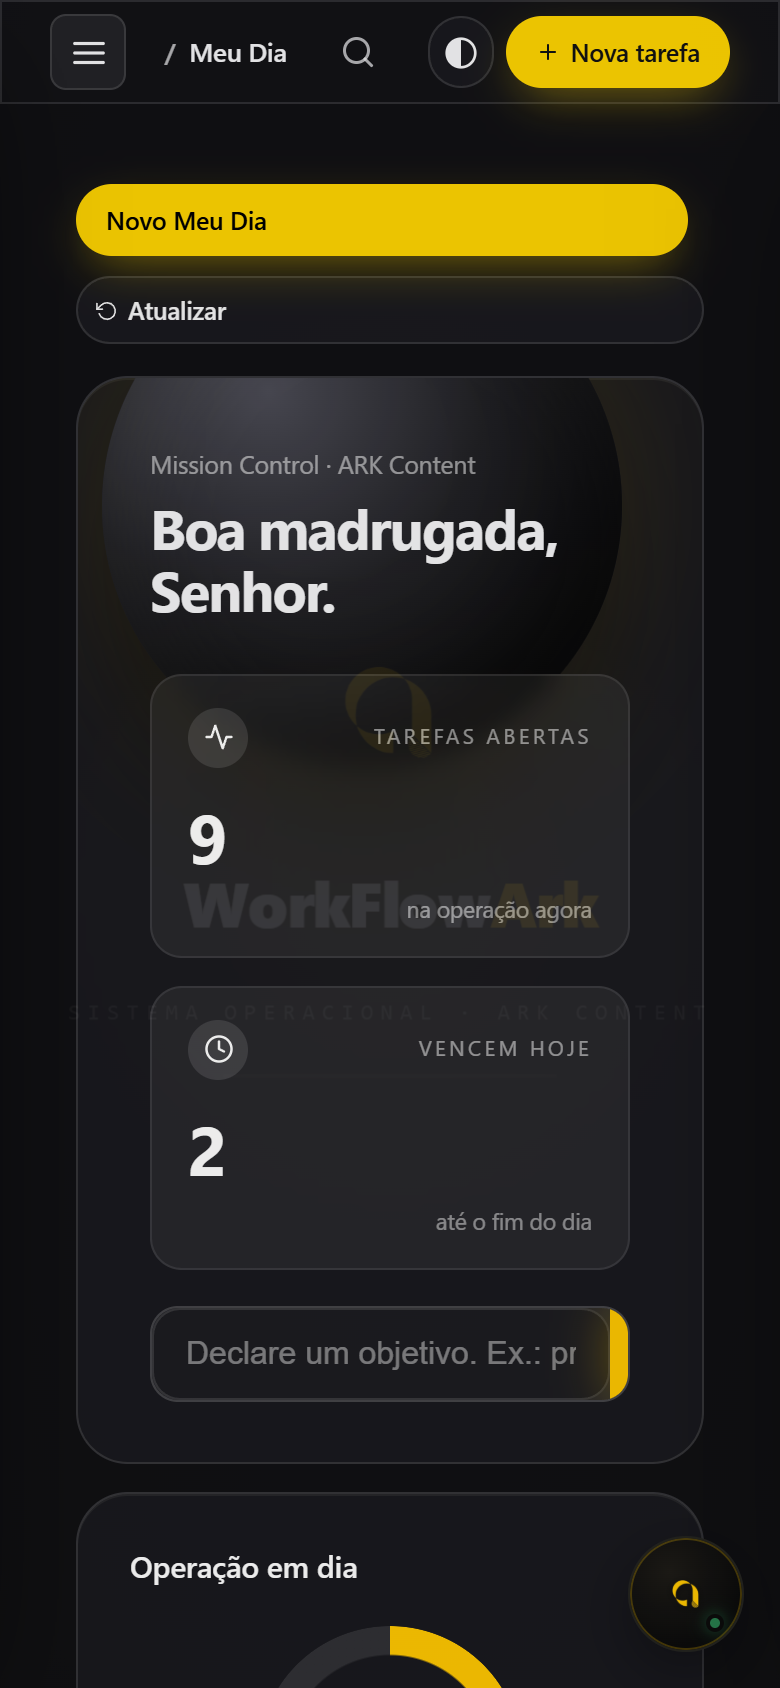
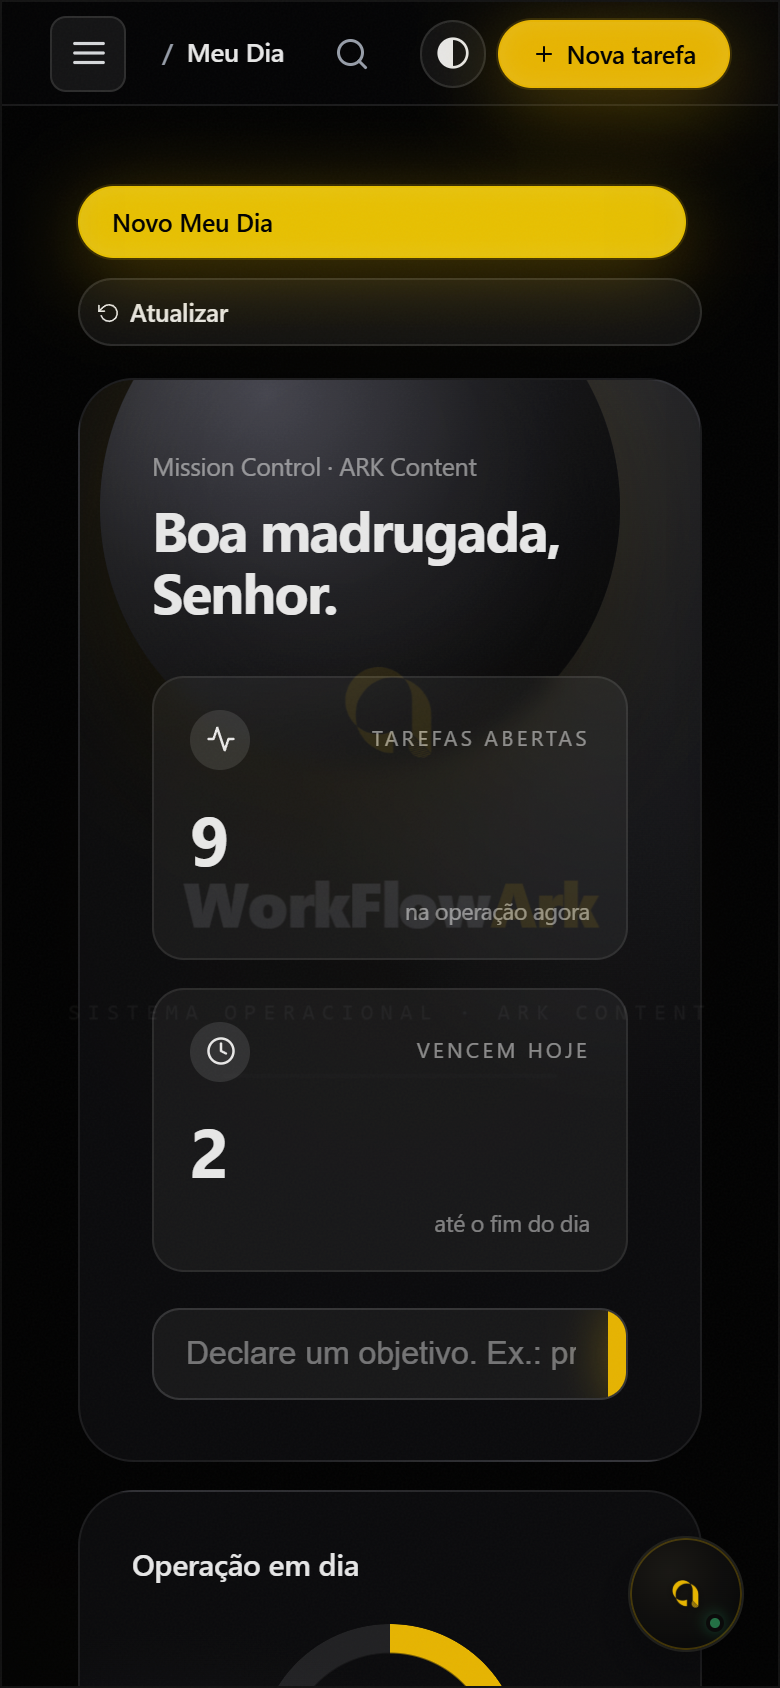
Next: fundo preto original de volta, vidro só na sidebar, marcador NEXT 20260921c

diff --git a/public/workflowark-next-20260921a.css b/public/workflowark-next-20260921a.css
@@ -1,137 +1,23 @@
-/* ============ WorkFlowArk NEXT · vidro estilo iPhone (21/09/2026) ============
-   Camada por cima de workflowark-<data>.css, so em body.next. Mesma estrutura, mesma
-   sidebar, mesmas abas: so muda a pele. Liquid Glass: paineis translucidos com blur forte
-   e saturacao, brilho de borda no topo, cantos 26px, controles em pilula, fundo com luz
-   difusa por tras pro vidro ter o que refratar. Nao mexe em position/transform da sidebar,
-   topbar ou drawer (regra 6 do CLAUDE.md). Fallback opaco sem backdrop-filter e com
-   prefers-reduced-transparency. */
+/* ============ WorkFlowArk NEXT · pele minima (21/09/2026) ============
+   Decisao do Gabriel: fundo preto do tema original fica; vidro SO na sidebar.
+   Cartoes, Kanban, modais e o resto continuam exatamente como no /app.
+   Nao mexe em position/transform (regra 6 do CLAUDE.md). */
 
-body.next{
-  --g-bg:#050506;
-  --g-glass:rgba(26,26,30,.86);--g-glass2:rgba(255,255,255,.08);--g-glass3:rgba(255,255,255,.14);
-  --g-line:rgba(255,255,255,.12);--g-line2:rgba(255,255,255,.22);--g-hi:rgba(255,255,255,.18);
-  --g-ink:#f5f5f7;--g-ink2:rgba(245,245,247,.72);--g-ink3:rgba(245,245,247,.48);
-  --g-solid:#151518;--g-r:26px;--g-rs:16px;--g-blur:blur(18px) saturate(1.25);
-  --g-sh:0 20px 60px -20px rgba(0,0,0,.7),0 1px 0 rgba(255,255,255,.06);
-  --g-font:Inter,-apple-system,BlinkMacSystemFont,"SF Pro Text","Segoe UI",system-ui,sans-serif;
-  --bg:var(--g-bg);--surface:var(--g-glass);--line:var(--g-line);--line-2:var(--g-line2);
-  --ink:var(--g-ink);--ink-2:var(--g-ink);--txt:var(--g-ink);--mute:var(--g-ink2);--mute-2:var(--g-ink3);
-  font-family:var(--g-font);letter-spacing:-.01em;
-}
-body.next.aura-light{
-  --g-bg:#e9e9ee;
-  --g-glass:rgba(255,255,255,.92);--g-glass2:rgba(17,17,20,.05);--g-glass3:rgba(17,17,20,.09);
-  --g-line:rgba(17,17,20,.08);--g-line2:rgba(17,17,20,.16);--g-hi:rgba(255,255,255,.95);
-  --g-ink:#111114;--g-ink2:rgba(17,17,20,.7);--g-ink3:rgba(17,17,20,.46);
-  --g-solid:#ffffff;--g-sh:0 20px 60px -24px rgba(0,0,0,.25),0 1px 0 rgba(255,255,255,.8);
-}
-
-/* fundo com luz por tras: e isso que faz o vidro parecer vidro */
-body.next,body.next .app{background:var(--g-bg)}
-body.next .app{position:relative;padding:12px;gap:12px;isolation:isolate}
-body.next .app::before,body.next .app::after{content:"";position:absolute;border-radius:50%;pointer-events:none;z-index:-1;filter:blur(80px)}
-body.next .app::before{width:60vw;height:60vw;left:-18vw;top:-24vw;background:radial-gradient(circle,rgba(255,199,0,.12),rgba(255,199,0,0) 70%)}
-body.next .app::after{width:50vw;height:50vw;right:-16vw;bottom:-20vw;background:radial-gradient(circle,rgba(120,140,255,.07),rgba(120,140,255,0) 70%)}
-body.next.aura-light .app::before{background:radial-gradient(circle,rgba(255,199,0,.45),rgba(255,199,0,0) 70%)}
-body.next.aura-light .app::after{background:radial-gradient(circle,rgba(120,140,255,.28),rgba(120,140,255,0) 70%)}
-body.next .main::before,body.next .main::after{display:none}
-
-/* vidro base */
-body.next .side,body.next .topbar,body.next #gsearch-res,body.next .pp-dd{
-  background:rgba(22,22,26,.6);border:1px solid var(--g-line);
-  backdrop-filter:var(--g-blur);-webkit-backdrop-filter:var(--g-blur);
-  box-shadow:inset 0 1px 0 var(--g-hi),var(--g-sh)}
-body.next.aura-light .side,body.next.aura-light .topbar{background:rgba(255,255,255,.62)}
-body.next .main,body.next .card,body.next .kpi,body.next .widget,body.next .md-card,body.next .md-block,
-body.next .aura-hero,body.next .aura-card,body.next .aura-stat,body.next .aura-goal,body.next .tb-search,body.next .tb-pill,body.next .tabs,body.next .task-col{
-  background:var(--g-glass);border:1px solid var(--g-line);box-shadow:inset 0 1px 0 rgba(255,255,255,.06)}
-@supports not ((backdrop-filter:blur(1px)) or (-webkit-backdrop-filter:blur(1px))){
-  body.next .side,body.next .main,body.next .topbar,body.next .card,body.next .kpi,body.next .task-col,body.next .tabs{background:var(--g-solid)}}
-@media (prefers-reduced-transparency:reduce){
-  body.next .side,body.next .main,body.next .topbar,body.next .card,body.next .kpi,body.next .task-col,body.next .tabs,body.next .pj-f,body.next .modal{backdrop-filter:none;-webkit-backdrop-filter:none;background:var(--g-solid)}}
-
-/* moldura */
-body.next .side{border-radius:var(--g-r);border-right:1px solid var(--g-line)}
-body.next .main{border-radius:var(--g-r);background:#0f0f12;overflow:hidden}
-body.next.aura-light .main{background:#f4f4f6}
-@media (max-width:900px){
-  body.next .app{padding:0;gap:0}
-  body.next .side,body.next .main{border-radius:0;border:0}
-  body.next .side{background:var(--g-solid)}
-}
-
-/* sidebar (estrutura original; so a pele) */
-body.next .side-head{border-bottom:0;padding:16px 14px 8px}
-body.next .brand-mark img{border-radius:11px}
-body.next .brand-info .nm{font-weight:600;font-size:14px}
-body.next .nav-label{color:var(--g-ink3);font-size:10.5px;letter-spacing:.14em;text-transform:uppercase;font-weight:600}
-body.next .navitem,body.next .subitem{border-radius:14px;font-weight:500;font-size:13.5px;color:var(--g-ink2);min-height:38px;transition:background .18s,color .18s}
-body.next .navitem svg,body.next .subitem svg{color:var(--g-ink3)}
-body.next .navitem:hover,body.next .subitem:hover{background:var(--g-glass2);color:var(--g-ink);transform:none}
-body.next .navitem.active,body.next .subitem.active{background:var(--g-glass3);color:var(--g-ink);box-shadow:inset 0 1px 0 var(--g-hi),inset 0 0 0 1px var(--g-line2)}
-body.next .navitem.active svg,body.next .subitem.active svg{color:#ffd400}
+body.next .app{padding:12px;gap:12px;background:#000}
+body.next.aura-dark .side{
+  background:rgba(22,22,26,.55);border:1px solid rgba(255,255,255,.12);border-right:1px solid rgba(255,255,255,.12);
+  border-radius:26px;
+  backdrop-filter:blur(22px) saturate(1.3);-webkit-backdrop-filter:blur(22px) saturate(1.3);
+  box-shadow:inset 0 1px 0 rgba(255,255,255,.18),0 20px 60px -20px rgba(0,0,0,.7)}
+body.next.aura-light .side{
+  background:rgba(255,255,255,.6);border:1px solid rgba(17,17,20,.08);border-radius:26px;
+  backdrop-filter:blur(22px) saturate(1.3);-webkit-backdrop-filter:blur(22px) saturate(1.3);
+  box-shadow:inset 0 1px 0 rgba(255,255,255,.9),0 20px 60px -24px rgba(0,0,0,.25)}
+body.next .navitem,body.next .subitem{border-radius:14px}
+body.next.aura-dark .navitem.active,body.next.aura-dark .subitem.active{background:rgba(255,255,255,.12);color:#fff;box-shadow:inset 0 1px 0 rgba(255,255,255,.18),inset 0 0 0 1px rgba(255,255,255,.2)}
+body.next.aura-dark .navitem.active svg,body.next.aura-dark .subitem.active svg{color:#ffd400}
 body.next #nav-indicator{opacity:0!important}
-body.next .navitem .badge,body.next .subitem .badge,body.next .crm-pill .badge{background:#ffd400;color:#111;font-weight:700;border-radius:999px}
-body.next .crm-pill{background:var(--g-glass);border:1px solid var(--g-line);border-radius:14px;color:var(--g-ink)}
-body.next .crm-pill:hover{border-color:#ffd400}
-body.next .side-foot{border-top:1px solid var(--g-line)}
-body.next .side-foot .av{border-radius:12px;box-shadow:none;background:#ffd400;color:#111;font-weight:700}
-body.next .side-foot .ico:hover{background:var(--g-glass2);color:var(--g-ink)}
-body.next .nav::-webkit-scrollbar-thumb,body.next .view::-webkit-scrollbar-thumb{background:var(--g-line2);border-radius:999px}
-
-/* topo: barra de vidro flutuante (a posicao continua a do tema escuro original) */
-body.next.aura-dark .topbar{background:rgba(20,20,24,.45);border-bottom:1px solid var(--g-line);box-shadow:none}
-body.next.aura-light .topbar{background:rgba(255,255,255,.5);border-bottom:1px solid var(--g-line);box-shadow:none}
-body.next .crumbs{color:var(--g-ink3)}
-body.next .crumbs .here{color:var(--g-ink);font-weight:600}
-body.next .tb-search{border-radius:999px;box-shadow:none}
-body.next .tb-search input{background:transparent;border:0;color:var(--g-ink);font-size:13px}
-body.next .tb-pill{border-radius:999px;color:var(--g-ink2);box-shadow:none}
-body.next .tb-btn{border-radius:999px;font-weight:600;font-size:12.5px;min-height:36px;padding:8px 14px}
-body.next .tb-btn:not(.tb-ic){background:#ffd400;color:#111;border-color:transparent;box-shadow:0 8px 24px -8px rgba(255,212,0,.6)}
-body.next .tb-btn:not(.tb-ic):hover{transform:none;filter:brightness(1.05);box-shadow:0 10px 28px -8px rgba(255,212,0,.7)}
-body.next .icobtn,body.next .tb-btn.tb-ic{background:var(--g-glass);border:1px solid var(--g-line);border-radius:999px;color:var(--g-ink)}
-body.next .icobtn:hover,body.next .tb-btn.tb-ic:hover{background:var(--g-glass2)}
-body.next #sync-status{color:var(--g-ink3)}
-
-/* paginas */
-body.next .page-title h1,body.next .page-head h1{font-size:28px;font-weight:700;letter-spacing:-.025em;color:var(--g-ink)}
-body.next .page-title p{color:var(--g-ink2)}
-body.next .aura-saud{letter-spacing:-.025em}
-
-/* cartoes e indicadores */
-body.next .card,body.next .kpi,body.next .widget,body.next .md-card,body.next .md-block,body.next .aura-hero,body.next .aura-card,body.next .aura-stat,body.next .aura-goal{border-radius:var(--g-r)}
-body.next .card:hover,body.next .kpi:hover{transform:none;border-color:var(--g-line2)}
-body.next .kpi{padding:18px 20px;min-height:108px;gap:6px}
-body.next .kpi .l{font-size:11.5px;letter-spacing:.06em;text-transform:uppercase;color:var(--g-ink2);font-weight:600}
-body.next .kpi .v{font-family:var(--g-font);font-size:32px;font-weight:600;letter-spacing:-.03em;color:var(--g-ink);font-variant-numeric:tabular-nums}
-body.next .kpi .d{color:var(--g-ink3)}
-body.next .kpi::after{display:none}
-body.next .kpi.yel{background:linear-gradient(135deg,rgba(255,212,0,.30),rgba(255,212,0,.06)),var(--g-glass)}
-body.next .card.dk{background:rgba(0,0,0,.35)}
-body.next .card.yel{background:linear-gradient(135deg,rgba(255,212,0,.30),rgba(255,212,0,.06)),var(--g-glass);color:var(--g-ink)}
-
-/* abas, botoes, campos: pilulas */
-body.next .tabs{gap:4px;padding:4px;border-radius:999px;display:inline-flex}
-body.next .tab{border-radius:999px;font-weight:500;font-size:12.5px;color:var(--g-ink2);border:0;background:transparent;padding:7px 14px}
-body.next .tab.active{background:var(--g-glass3);color:var(--g-ink);box-shadow:inset 0 1px 0 var(--g-hi)}
-body.next .btn,body.next button.btn{border-radius:999px;font-weight:600}
-body.next .btn.primary,body.next .btn-primary,body.next .btn.yel{background:#ffd400;color:#111;border-color:#ffd400}
-body.next .chip,body.next .pill,body.next .tag{border-radius:999px}
-body.next input:not([type=checkbox]):not([type=radio]),body.next select,body.next textarea{background:var(--g-glass);border:1px solid var(--g-line);color:var(--g-ink);border-radius:14px}
-body.next input:focus,body.next select:focus,body.next textarea:focus{border-color:rgba(255,212,0,.7);outline:0;box-shadow:0 0 0 3px rgba(255,212,0,.18)}
-
-/* Kanban de Atividades */
-body.next #page-tarefas{--tf-fill:var(--g-glass);--tf-col:rgba(255,255,255,.04);--tf-card:rgba(255,255,255,.08);--tf-line:var(--g-line);--tf-ink:var(--g-ink);--tf-mute:var(--g-ink3)}
-body.next.aura-light #page-tarefas{--tf-col:rgba(255,255,255,.35);--tf-card:rgba(255,255,255,.85)}
-body.next .task-col{border-radius:20px}
-body.next .task-card,body.next .tc{border-radius:18px;border:1px solid var(--g-line);box-shadow:inset 0 1px 0 rgba(255,255,255,.12)}
-body.next .task-card:hover{border-color:var(--g-line2);box-shadow:inset 0 1px 0 rgba(255,255,255,.16),0 14px 34px -20px rgba(0,0,0,.8)}
-
-/* modais e menus: vidro mais denso pra leitura */
-body.next .pj-f,body.next .modal,body.next .md,body.next .ap-box{background:rgba(22,22,26,.82);border:1px solid var(--g-line2);border-radius:28px;backdrop-filter:blur(40px) saturate(1.5);-webkit-backdrop-filter:blur(40px) saturate(1.5);box-shadow:inset 0 1px 0 var(--g-hi),0 40px 100px -30px rgba(0,0,0,.9)}
-body.next.aura-light .pj-f,body.next.aura-light .modal,body.next.aura-light .md,body.next.aura-light .ap-box{background:rgba(255,255,255,.82)}
-body.next table th{font-size:10.5px;letter-spacing:.08em;text-transform:uppercase;color:var(--g-ink3);font-weight:600}
-body.next table td{border-color:var(--g-line)}
-body.next ::selection{background:#ffd400;color:#111}
-@media (prefers-reduced-motion:reduce){body.next *{transition:none!important;animation:none!important}}
+body.next .main{border-radius:26px}
+@supports not ((backdrop-filter:blur(1px)) or (-webkit-backdrop-filter:blur(1px))){body.next.aura-dark .side{background:#151518}}
+@media (prefers-reduced-transparency:reduce){body.next .side{backdrop-filter:none;-webkit-backdrop-filter:none;background:#151518}}
+@media (max-width:900px){body.next .app{padding:0;gap:0}body.next .side,body.next .main{border-radius:0}body.next.aura-dark .side{background:#151518}}

diff --git a/public/workflowark-next.html b/public/workflowark-next.html
@@ -51,7 +51,7 @@
 <link rel="stylesheet" href="workflowark-20260915a.css">
 <link rel="stylesheet" href="workflowark-next-20260921a.css">
 </head>
-<!-- build NEXT 20260921b -->
+<!-- build NEXT 20260921c -->
 <body class="aura-dark next">
 <script>/* tema salvo por usuário: aplica ANTES do primeiro paint (padrão = escuro) */
 try{if(localStorage.getItem('wfa-theme')==='light'){document.body.classList.remove('aura-dark');document.body.classList.add('aura-light');}}catch(e){}</script>
